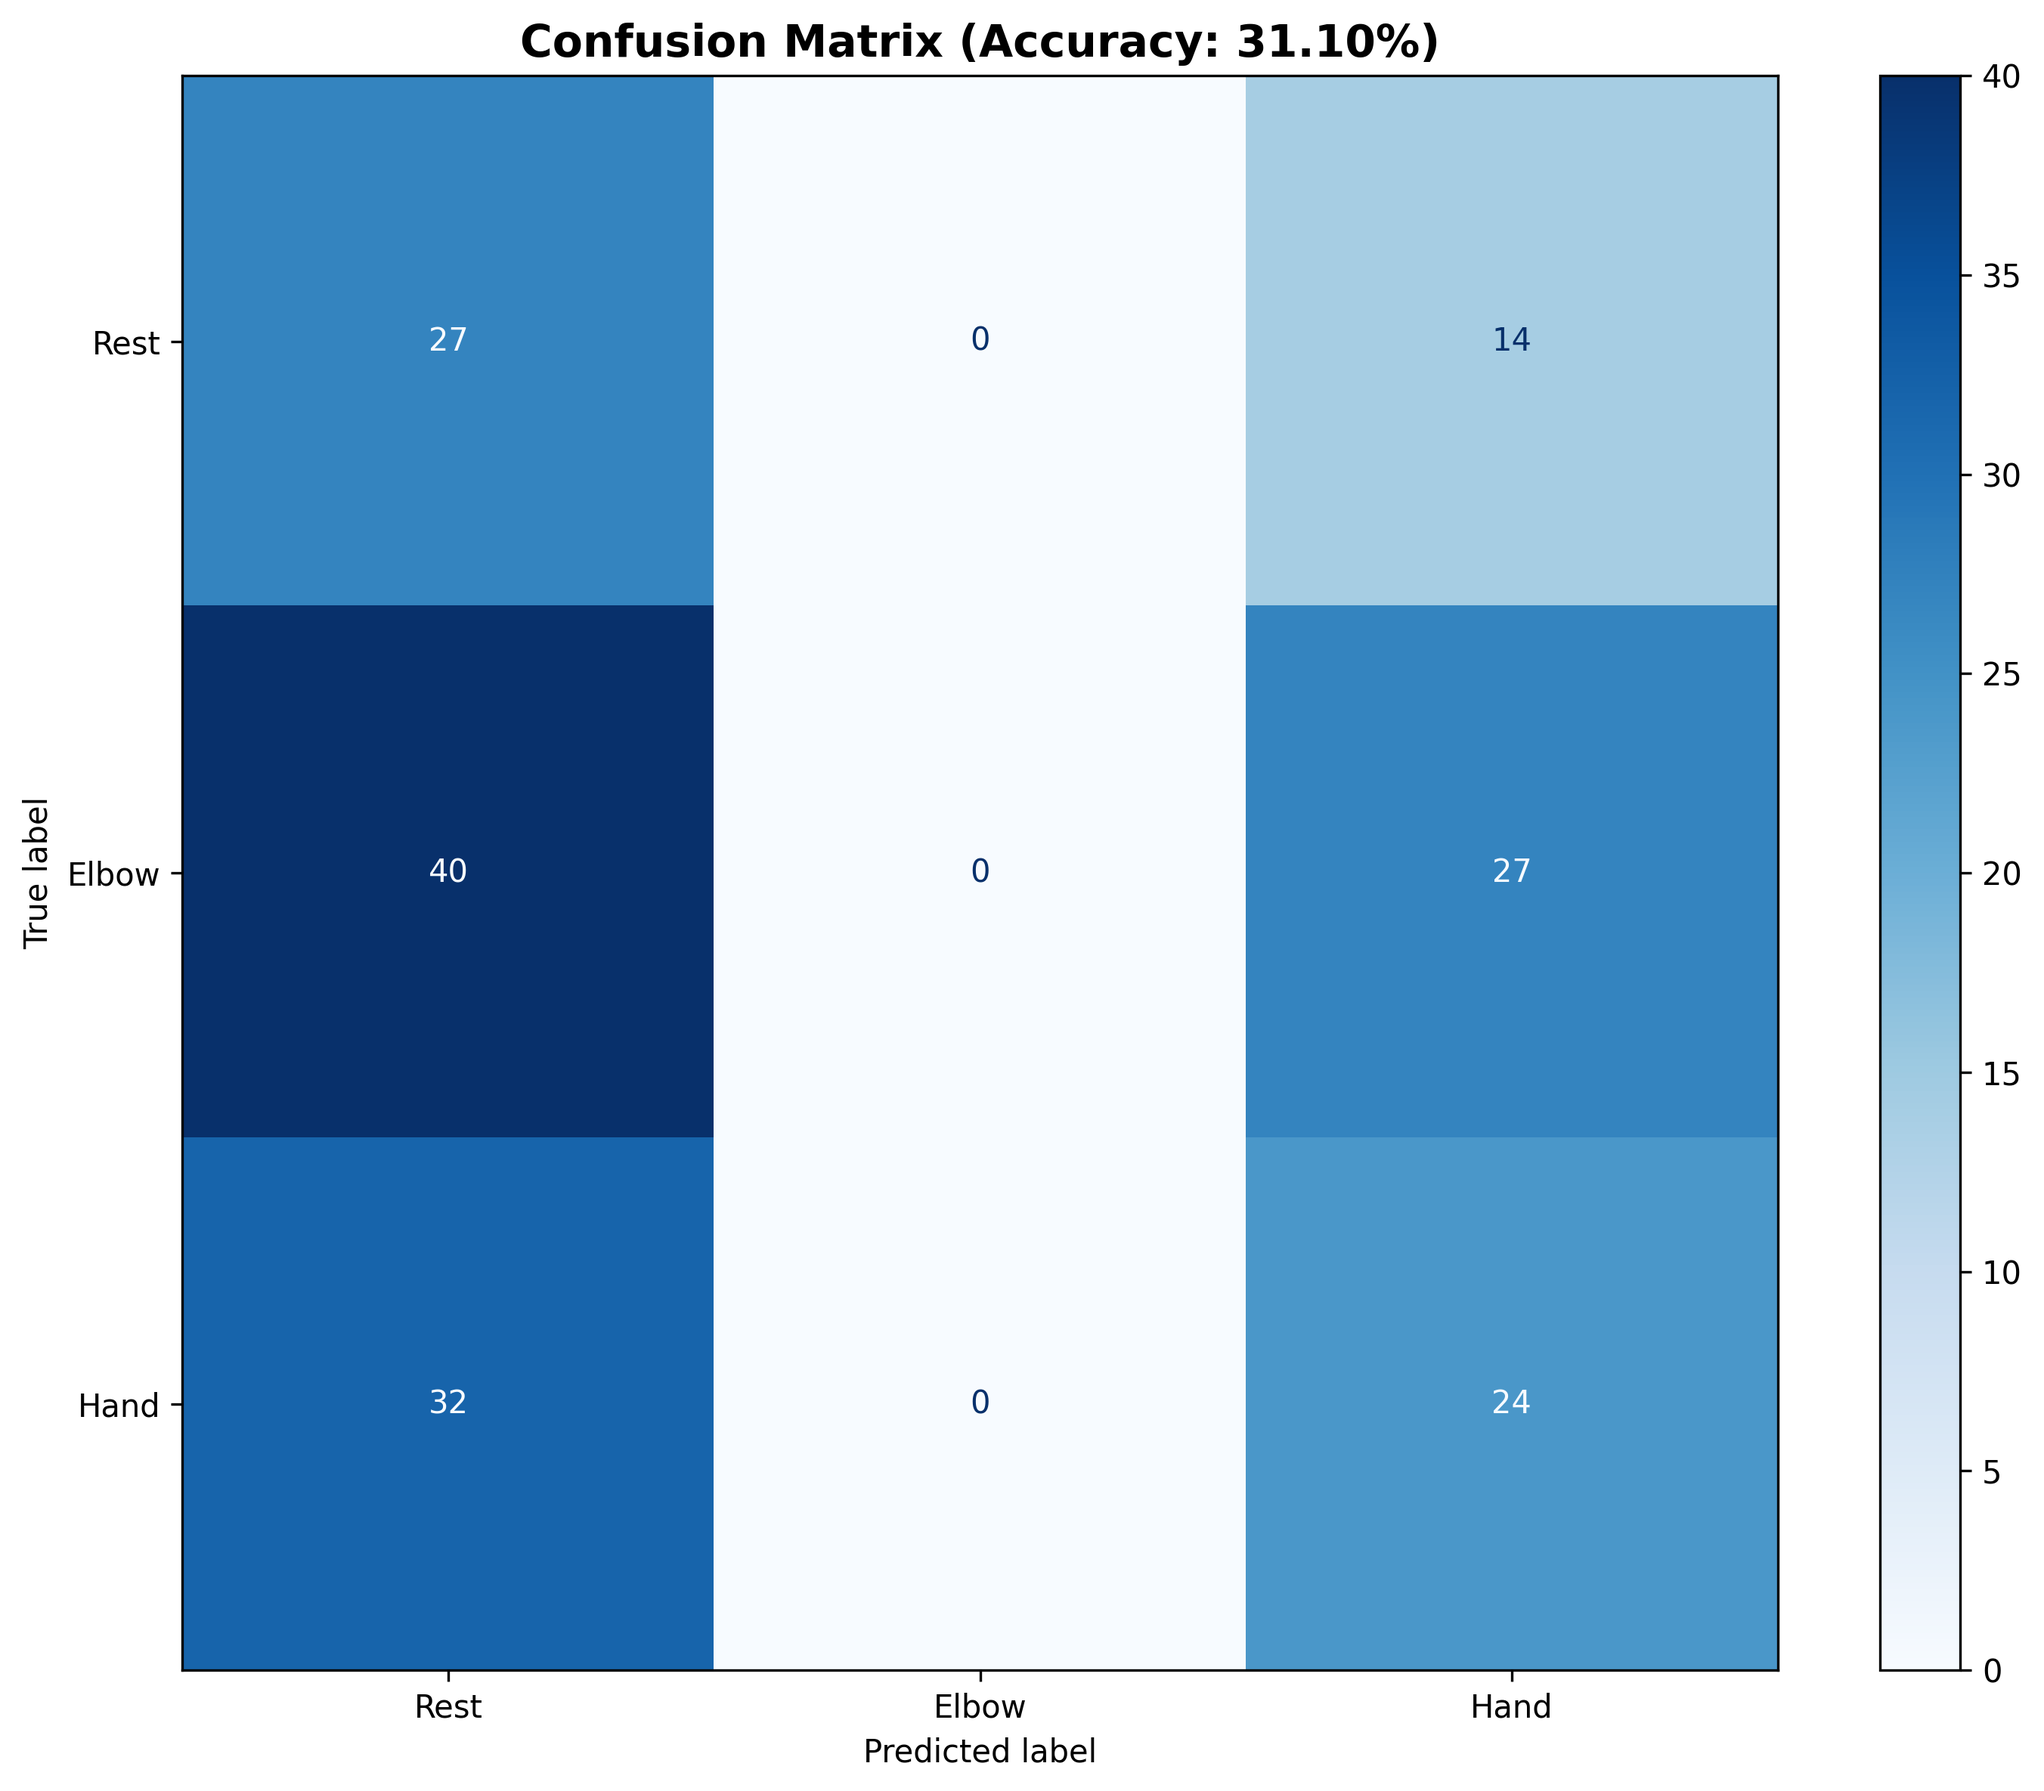
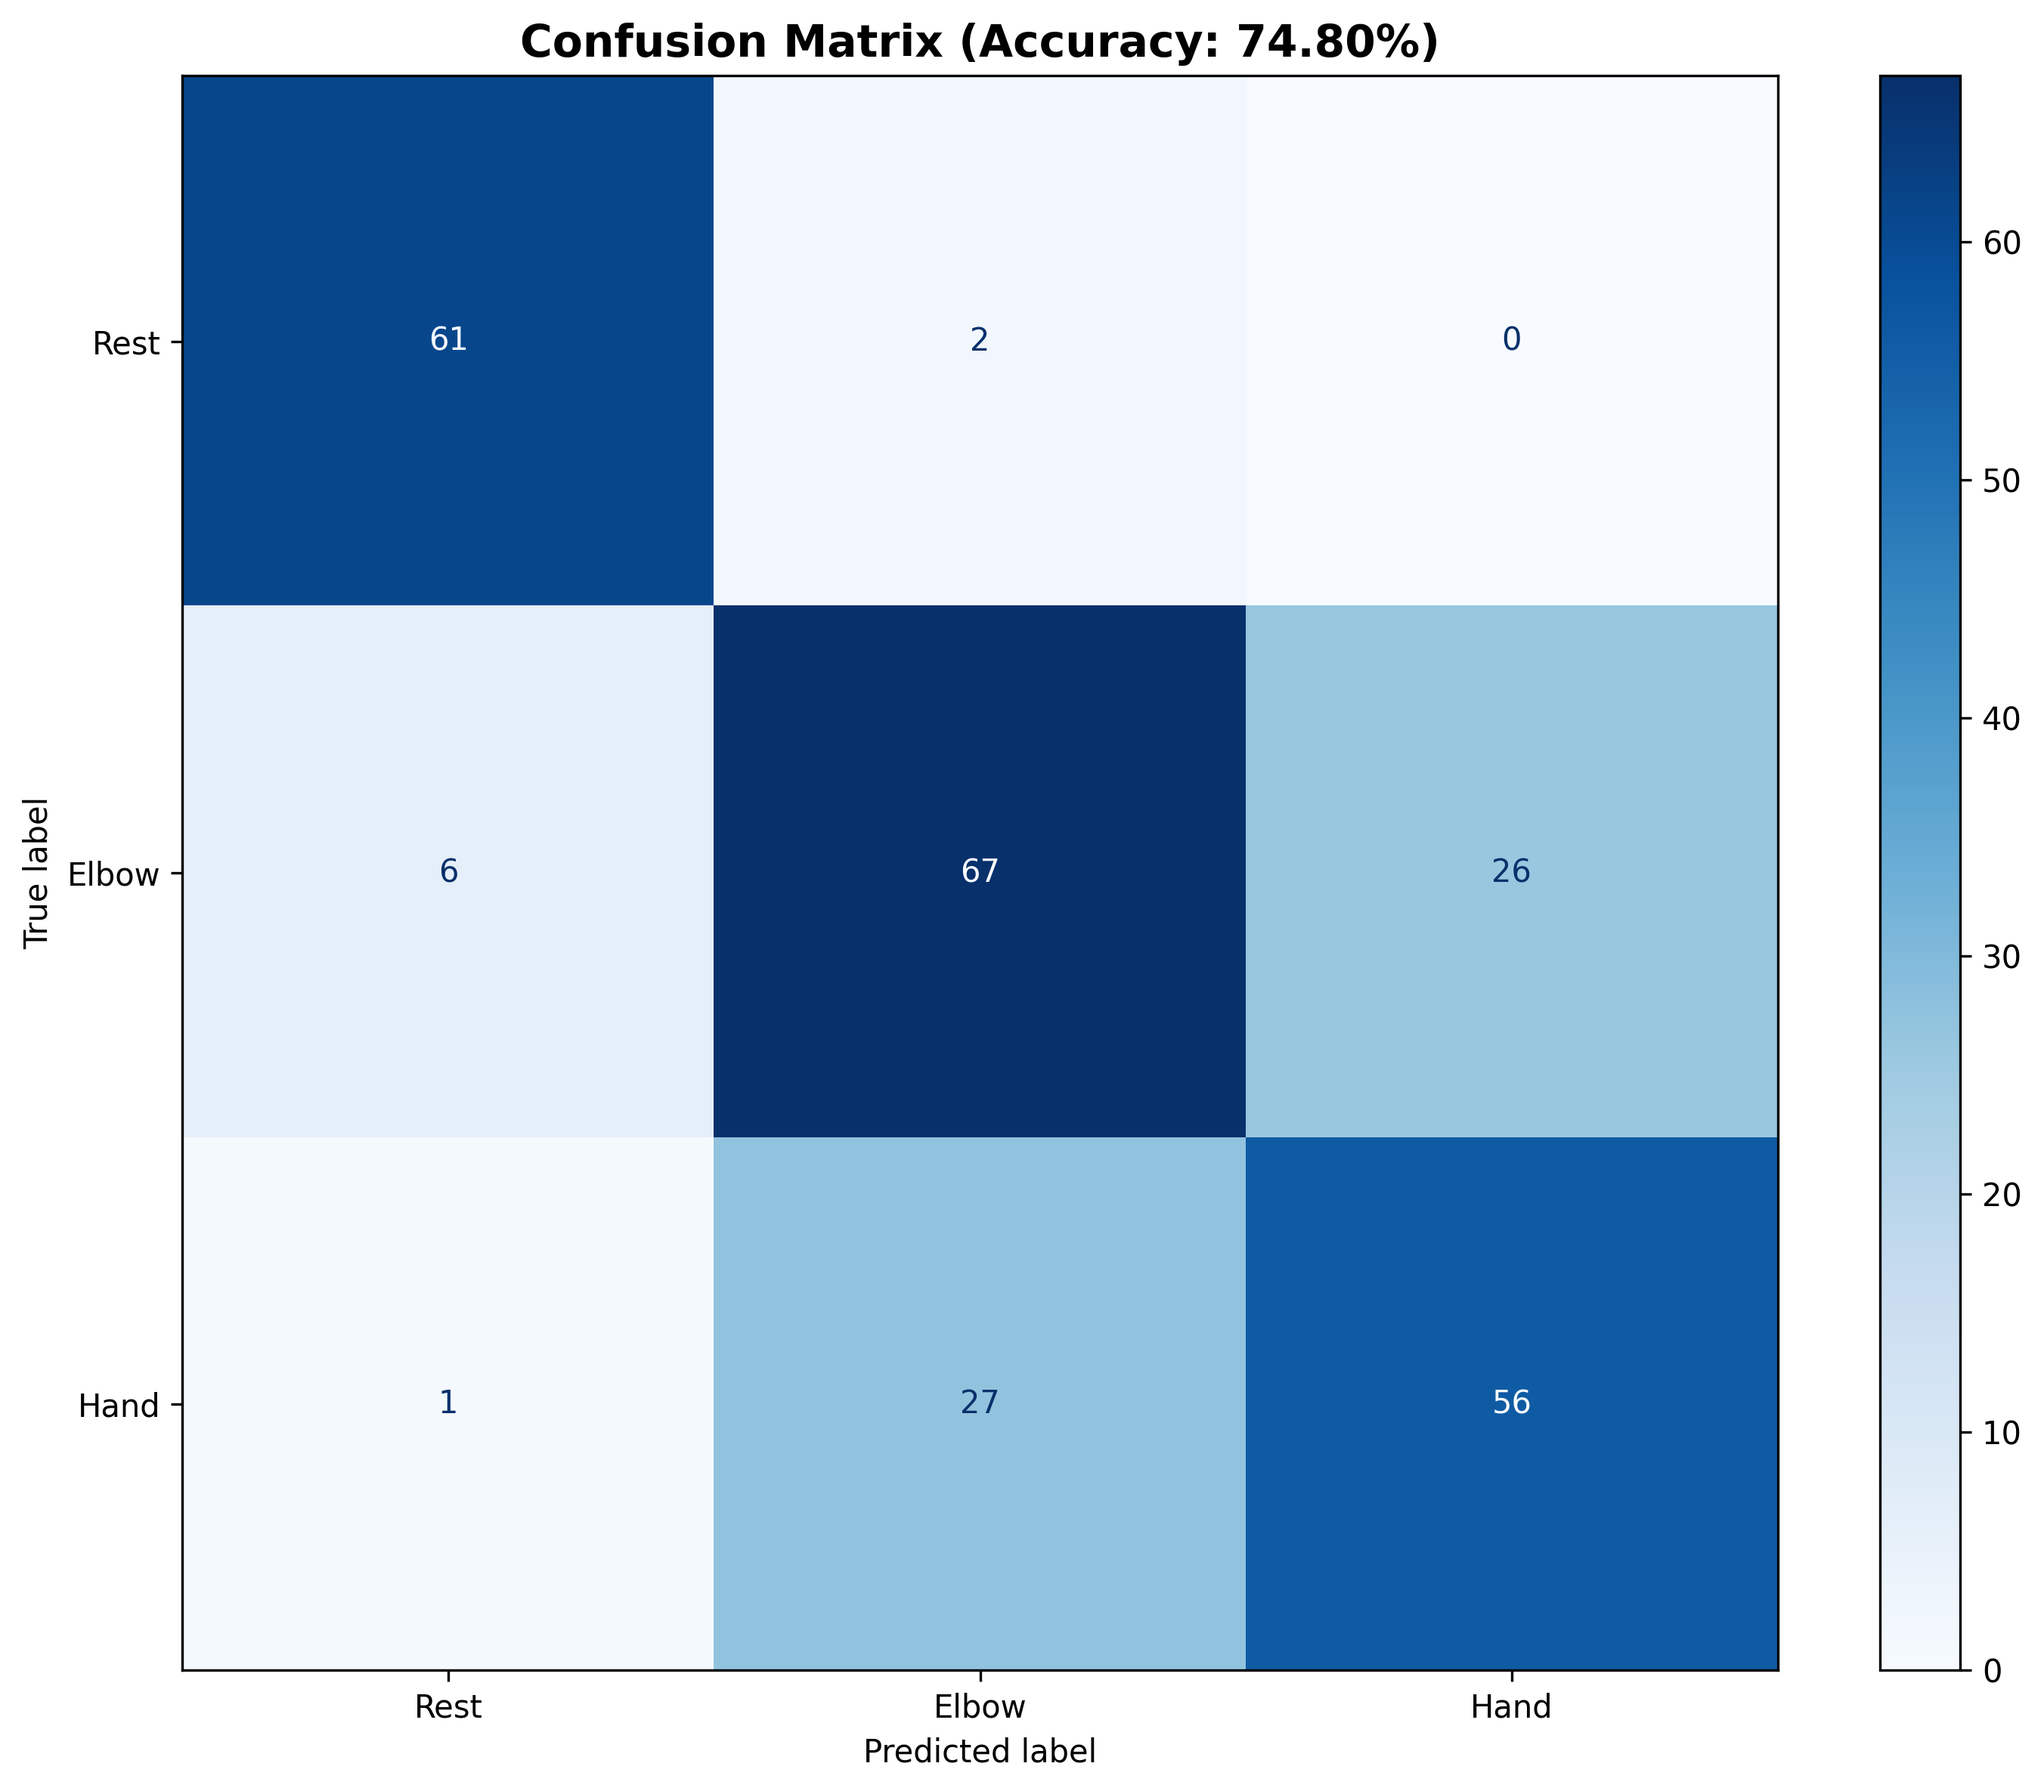
newest model

diff --git a/src/mi3_eeg/config.py b/src/mi3_eeg/config.py
@@ -94,7 +94,7 @@ class DataConfig:
         random_seed: Random seed for reproducibility.
     """
 
-    mat_filename: str = "sub-011_eeg90hz.mat"
+    mat_filename: str = "sub-011_eeg.mat"
     subject_id: str = "sub-011"
     sampling_rate: int = 90
     bandpass_filter: tuple[int, int] = (7, 35)
@@ -102,7 +102,7 @@ class DataConfig:
     num_classes: int = 3
     class_names: tuple[str, ...] = ("Rest", "Elbow", "Hand")
     reduce_rest_ratio: float = 0.6
-    test_size: float = 0.2
+    test_size: float = 0.3
     random_seed: int = 42
 
 
@@ -120,11 +120,11 @@ class TrainingConfig:
         device: Device to use for training ('cuda' or 'cpu').
     """
 
-    epochs: int = 40
-    batch_size: int = 64
-    learning_rate: float = 0.01
-    dropout: float = 0.35
-    early_stopping_patience: int = 50
+    epochs: int = 800
+    batch_size: int = 32
+    learning_rate: float = 0.001
+    dropout: float = 0.4
+    early_stopping_patience: int = 200
     early_stopping_min_delta: float = 5e-4
     device: str = "cuda"
 
@@ -141,7 +141,7 @@ class ModelConfig:
 
     channel_count: int = 62
     classes_num: int = 3
-    drop_out: float = 0.35
+    drop_out: float = 0.40
 
 
 # Global constants
